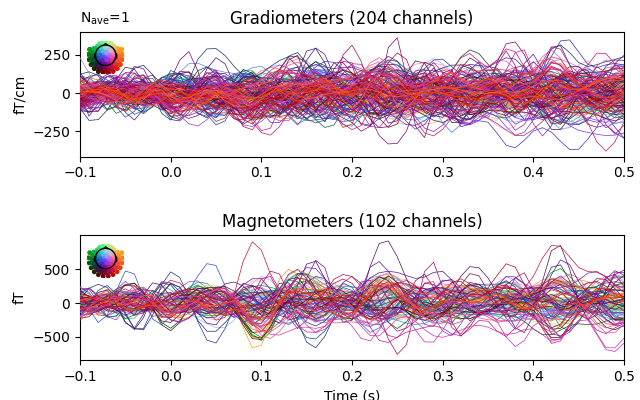
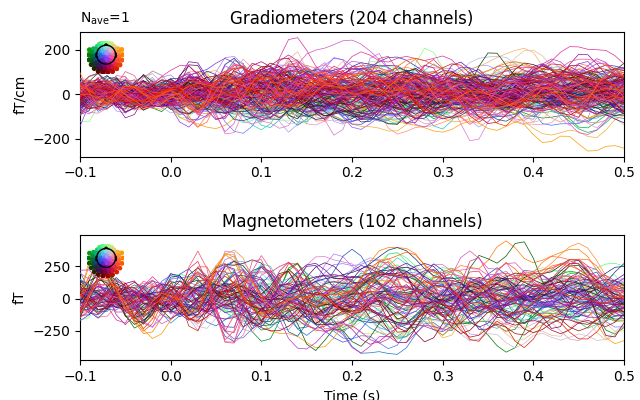
working on phoneme decoding

Changed region(s): [[0.0625, 0.6, 1.0, 0.9], [0.0625, 0.09, 1.0, 0.39], [0.0625, 0.81, 0.125, 0.87]]

diff --git a/phoneme_decoding/decoding_ph.py b/phoneme_decoding/decoding_ph.py
@@ -134,11 +134,19 @@ class PATHS:
     # assert data.exists()
 
 
-TASK = "rest"
-subject = "220628"
+# For Dell ####
+# TASK = "rest"
+# subject = "220628"
 # To simplify for the time being
 # To run on the Neurospin workstation
-PATHS.data = Path("/home/co/workspace_LPP/data/MEG/LPP/LPP_bids")
+# PATHS.data = Path("/home/co/workspace_LPP/data/MEG/LPP/LPP_bids")
+
+# For NS ####
+TASK = "listen"
+subject = "1"
+# To simplify for the time being
+# To run on the Neurospin workstation
+PATHS.data = Path("/home/is153802/data/BIDS_final")
 
 epochs_final = []
 ph_final = []
@@ -166,6 +174,7 @@ for run_id in np.arange(1, 10):
     event_file += f"_ses-{bids_path.session}"
     event_file += f"_task-{bids_path.task}"
     event_file += f"_run-{bids_path.run}_events.tsv"
+    print(event_file)
     assert Path(event_file).exists()
     # read events
     meta = pd.read_csv(event_file, sep="\t")
